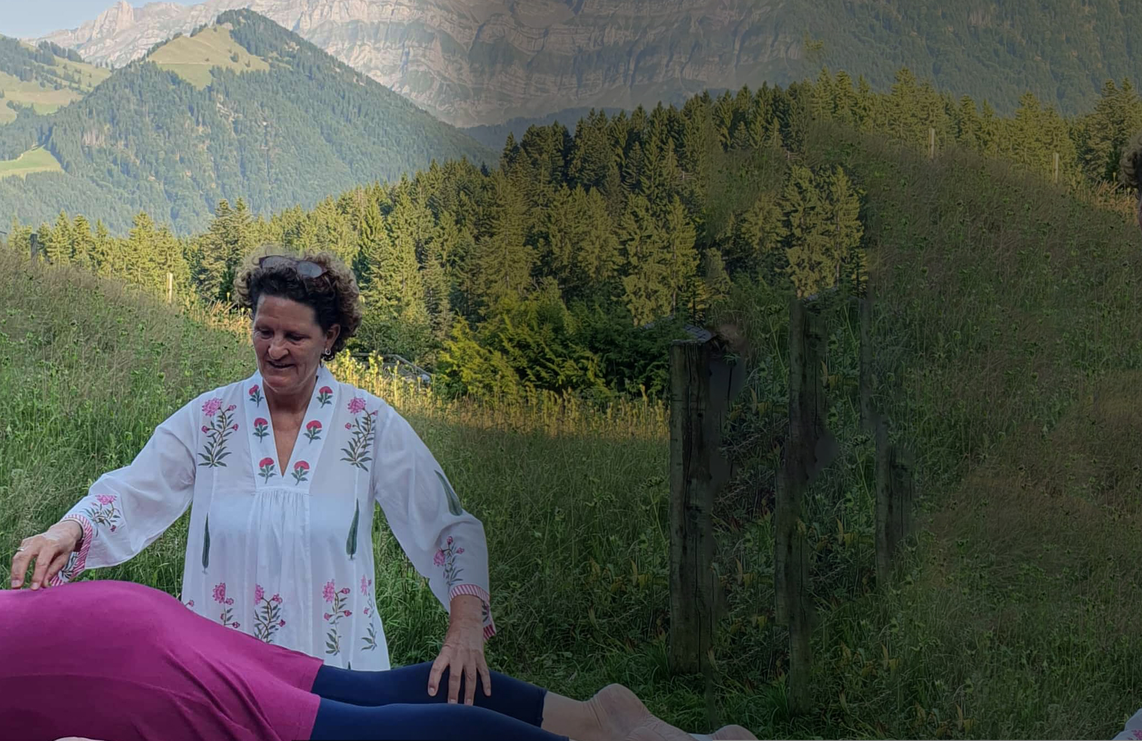
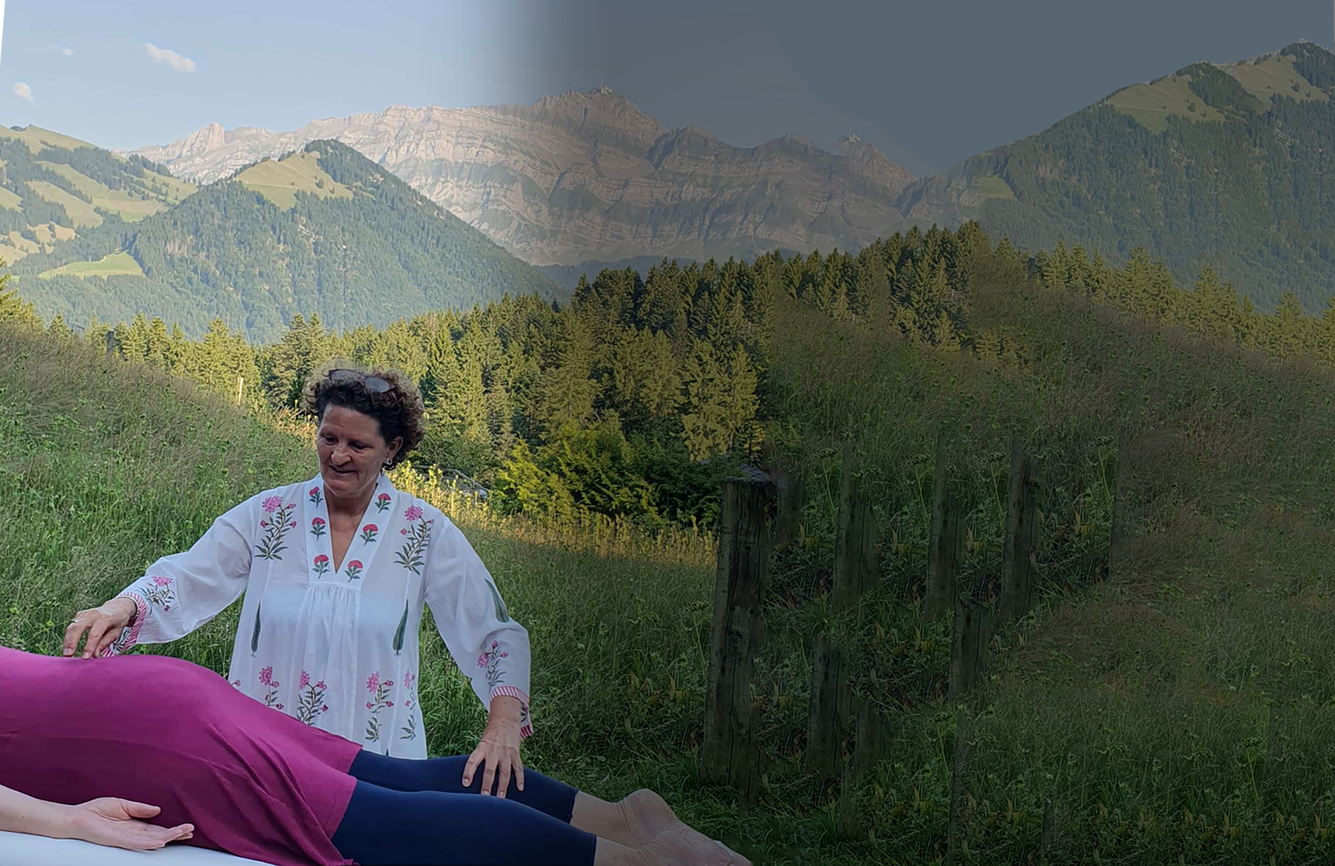
homepage changes

diff --git a/components/LatestArticles.tsx b/components/LatestArticles.tsx
@@ -1,7 +1,54 @@
 import React from "react";
 import Image from "next/image";
 
+const articles = [
+    {
+    title: "Wie fühlt sich ein Leben ohne gespeichertes Trauma an?",
+    image: "/images/blog/lamp.jpg",
+    date: "Jun 2, 2024",
+    likes: 0,
+    comments: 1,
+    mainDay: "02",
+    mainMonth: "Jun",
+    description: "Kurze Beschreibung zum Artikel."
+  },
+  {
+    title: "Die 9 Traumabereiche – Wie tief sitzende Muster unser Leben prägen",
+    image: "/images/blog/krishna1.jpg",
+    date: "Apr 24, 2023",
+    likes: 0,
+    comments: 1,
+    mainDay: "24",
+    mainMonth: "Apr",
+    description: "Warum ich mich Bewusstseins-Architektin nenne"
+  },
+
+  {
+    title: "Die Urform der Menschlichkeit ist das befreite Trauma",
+    image: "/images/blog/festival.jpg",
+    date: "May 10, 2022",
+    likes: 0,
+    comments: 1,
+    mainDay: "10",
+    mainMonth: "May",
+    description: "Kurze Beschreibung zum Artikel."
+  },
+
+    {
+    title: "Ich baue Räume – keine Konzepte.",
+    image: "/images/blog/holi.jpg",
+    date: "May 02, 2021",
+    likes: 0,
+    comments: 1,
+    mainDay: "02",
+    mainMonth: "May",
+    description: "Warum ich mich Bewusstseins-Architektin nenne"
+  },
+];
+
 const LatestArticles = () => {
+  // Swap: first article is main, next 3 are sidebar
+  const [main, ...sidebar] = articles;
   return (
     <section className="pt-lg-7 bg-white text-dark">
       <div className="container">
@@ -9,52 +56,35 @@ const LatestArticles = () => {
           Unser Blog
         </p>
         <h2 className="display-5 fw-bold mb-5">Der neuste Artikel</h2>
-
         <div className="row">
           {/* Main big article */}
           <div className="col-lg-6 mb-4">
             <div className="position-relative">
               <Image
-                src="/images/blog/holi.jpg"
-                alt="Traditional Holi delicacies"
+                src={main.image}
+                alt={main.title}
                 className="img-fluid"
-                width={900}
+                width={600}
                 height={500}
               />
             </div>
             <div className="d-flex mt-3">
               <div className="me-3 text-center">
-                <h2 className="fw-bold mb-0">24</h2>
-                <small className="text-muted text-uppercase">Apr</small>
+                <h2 className="fw-bold mb-0">{main.mainDay}</h2>
+                <small className="text-muted text-uppercase">{main.mainMonth}</small>
               </div>
               <div>
-                <h2 className="fw-bold">Ich baue Räume – keine Konzepte.</h2>
-                <p className="text-muted mb-2 small">
-                  Warum ich mich Bewusstseins-Architektin nenne
-                </p>
+                <h2 className="fw-bold">{main.title}</h2>
+                <p className="text-muted mb-2 small">{main.description}</p>
                 <small className="text-muted">
-                  0 Likes &nbsp;•&nbsp; 1 Comment
+                  {main.likes} Likes &nbsp;•&nbsp; {main.comments} Comment
                 </small>
               </div>
             </div>
           </div>
-
           {/* Sidebar articles */}
           <div className="col-lg-6">
-            {[
-              {
-                title: "Die 9 Traumabereiche – Wie tief sitzende Muster unser Leben prägen",
-                image: "/images/blog/krishna1.jpg",
-              },
-              {
-                title: "Die Urform der Menschlichkeit ist das befreite Trauma",
-                image: "/images/blog/festival.jpg",
-              },
-              {
-                title: "Wie fühlt sich ein Leben ohne gespeichertes Trauma an?",
-                image: "/images/blog/lamp.jpg",
-              },
-            ].map((item, idx) => (
+            {sidebar.map((item, idx) => (
               <div key={idx} className="d-flex mb-4 align-items-center">
                 <div className="flex-shrink-0 me-3 blog-image">
                   <Image
@@ -67,9 +97,9 @@ const LatestArticles = () => {
                 </div>
                 <div>
                   <small className="text-uppercase text-muted d-block mb-1">
-                    Apr 24, 2022
+                    {item.date}
                   </small>
-                  <h3 className="fw-bold mb-0 ">{item.title}</h3>
+                  <h3 className="fw-bold mb-0">{item.title}</h3>
                 </div>
               </div>
             ))}

diff --git a/components/HeroSection.tsx b/components/HeroSection.tsx
@@ -59,8 +59,8 @@ const HeroSection = () => {
               </div>
               <Image
                 src="/images/misc/flowers-crop.webp"
-                width={560}
-                height={381}
+               width={400}
+                height={281}
                 className="absolute bottom-0 start-0 sw-anim folwer-image"
                 alt="Flowers background"
               />
@@ -70,8 +70,8 @@ const HeroSection = () => {
           {/* Slide 2 */}
           <SwiperSlide>
             <div
-              className="swiper-inner"
-              style={{ backgroundImage: "url(/images/slider/2.jpg)",backgroundPosition: "20% 79%" }}
+              className="swiper-inner two"
+              style={{ backgroundImage: "url(/images/slider/2.jpg)",backgroundSize: "100% 114%", backgroundPosition: "10%" }}
             >
               <div className="sw-caption relative z-1000">
                 <div className="container">
@@ -108,8 +108,8 @@ const HeroSection = () => {
               </div>
               <Image
                 src="/images/misc/flowers-crop.webp"
-                width={560}
-                height={381}
+                width={400}
+                height={281}
                 className="absolute bottom-0 start-0 sw-anim folwer-image"
                 alt="Flowers background"
               />

diff --git a/components/TestimonialsBottom .tsx b/components/TestimonialsBottom .tsx
@@ -37,14 +37,12 @@ const TestimonialsBottom = () => {
     <section className="testimonials-bottom-section">
       <div className="container">
         <div className="testimonials-header">
-          <span className="testimonials-label">Erfahrungsberichte von KundInnen</span>
-          <h2 className="testimonials-title">Erfahrungsberichte von KundInnen</h2>
-           <div className="d-flex justify-content-center mt-2">
-          <button
-            className="btn fw-bold btn-main px-5 py-3">
+        <button
+            className="btn fw-bold mb-3 btn-main px-5 py-3">
             Feedback
           </button>
-        </div>
+          <h2 className="testimonials-title">Erfahrungsberichte von KundInnen</h2>
+         
         </div>
         <Swiper
           modules={[Pagination]}

diff --git a/components/TherapistServices.tsx b/components/TherapistServices.tsx
@@ -117,15 +117,15 @@ const TherapistServices = () => {
         className="w-20 absolute top-20 start-0 sw-anim"
         alt=""
       />
-      <img
+      {/* <img
         src="/images/misc/flowers-crop-2.webp"
         className="w-30 absolute top-0 start-0 sw-anim"
         alt=""
-      />
+      /> */}
       <div className="container">
         <div className="row">
           <div className="col-lg-6 offset-lg-3 text-center">
-            <div className="subtitle mb-3">Meine Angebote</div>
+           
             <h2 className="" data-wow-delay=".2s">
               Meine <span className="alt-font fw-500 ml-4 fs-64 id-color-2">Angebote</span>
             </h2>

diff --git a/app/styles/style.css b/app/styles/style.css
@@ -9044,7 +9044,7 @@ img {
 
 .testimonial-section {
   padding: 100px 0;
-  background: url("/images/background/3.webp") no-repeat center center;
+  background: url("/images/background/3.jpg") no-repeat center center;
   background-size: cover;
   background-attachment: fixed;
   position: relative;
@@ -9261,6 +9261,15 @@ img {
   left: 0;
   position: absolute;
 }
+
+@media (min-width: 1600px) and (max-width: 2500px) {
+
+ .swiper-inner.two {
+    background-position: 10%;
+    background-size: 100% 113% !important;
+  }
+}
+ 
 @media (min-width: 992px) {
   .col-md-1-5 {
     width: 20%;

diff --git a/components/TestimonialSection.tsx b/components/TestimonialSection.tsx
@@ -23,7 +23,7 @@ const TestimonialSection = () => {
               data-wow-delay=".2s"
             >
            {/* Kerstin R. Stoll, CEO <br /> */}
-Ich erinnere dich an das, was du längst bist –
+Ich erinnere dich an das, was du längst bist –<br />
 durch Präsenz, Energie und seelische Wahrheit.
             </p>
           </div>
